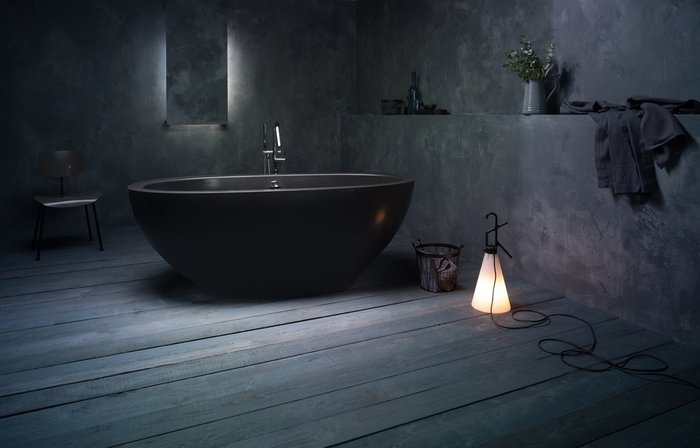
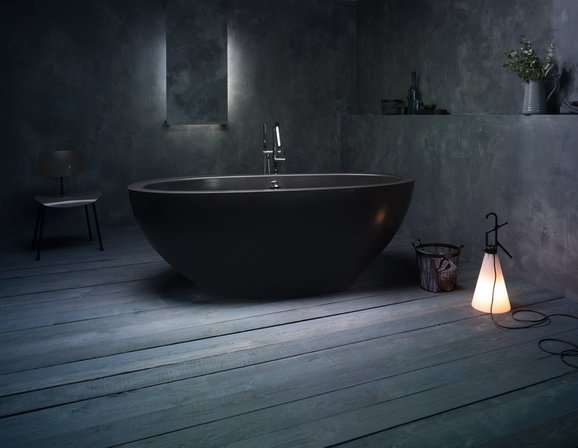
download_10_04_2

diff --git a/index.html b/index.html
@@ -221,8 +221,8 @@
         <div class="collection">
           <div class="collection-img flip-container" data-flip-time="3000">
             <div class="flipper">
-              <img class="front" src="images/product-01-470x303.jpg" alt="До" width="470" height="303" />
-              <img class="back" src="images/product-01-470x303.jpg" alt="После" width="470" height="303" />
+              <img class="front" src="images/black_bath.jpg" alt="До" width="470" height="303" />
+              <img class="back" src="images/black_bath2.jpg" alt="После" width="470" height="303" />
             </div>
           </div>
         </div>
@@ -233,8 +233,8 @@
         <div class="collection">
           <div class="collection-img flip-container" data-flip-time="4500">
             <div class="flipper">
-              <img class="front" src="images/product-02-470x303.jpg" alt="До" width="470" height="303" />
-              <img class="back" src="images/product-02-470x303.jpg" alt="После" width="470" height="303" />
+              <img class="front" src="images/black_bath.jpg" alt="До" width="470" height="303" />
+              <img class="back" src="images/black_bath2.jpg" alt="После" width="470" height="303" />
             </div>
           </div>
         </div>
@@ -245,8 +245,8 @@
         <div class="collection">
           <div class="collection-img flip-container" data-flip-time="6000">
             <div class="flipper">
-              <img class="front" src="images/product-03-470x303.jpg" alt="До" width="470" height="303" />
-              <img class="back" src="images/product-03-470x303.jpg" alt="После" width="470" height="303" />
+              <img class="front" src="images/black_bath.jpg" alt="До" width="470" height="303" />
+              <img class="back" src="images/black_bath2.jpg" alt="После" width="470" height="303" />
             </div>
           </div>
         </div>
@@ -257,8 +257,8 @@
         <div class="collection">
           <div class="collection-img flip-container" data-flip-time="5000">
             <div class="flipper">
-              <img class="front" src="images/product-04-470x303.jpg" alt="До" width="470" height="303" />
-              <img class="back" src="images/product-04-470x303.jpg" alt="После" width="470" height="303" />
+              <img class="front" src="images/black_bath.jpg" alt="До" width="470" height="303" />
+              <img class="back" src="images/black_bath2.jpg" alt="После" width="470" height="303" />
             </div>
           </div>
         </div>
@@ -269,8 +269,8 @@
         <div class="collection">
           <div class="collection-img flip-container" data-flip-time="7000">
             <div class="flipper">
-              <img class="front" src="images/product-03-470x303.jpg" alt="До" width="470" height="303" />
-              <img class="back" src="images/product-03-470x303.jpg" alt="После" width="470" height="303" />
+              <img class="front" src="images/black_bath.jpg" alt="До" width="470" height="303" />
+              <img class="back" src="images/black_bath2.jpg" alt="После" width="470" height="303" />
             </div>
           </div>
         </div>
@@ -281,8 +281,8 @@
         <div class="collection">
           <div class="collection-img flip-container" data-flip-time="4000">
             <div class="flipper">
-              <img class="front" src="images/product-03-470x303.jpg" alt="До" width="470" height="303" />
-              <img class="back" src="images/product-03-470x303.jpg" alt="После" width="470" height="303" />
+              <img class="front" src="images/black_bath.jpg" alt="До" width="470" height="303" />
+              <img class="back" src="images/black_bath2.jpg" alt="После" width="470" height="303" />
             </div>
           </div>
         </div>
